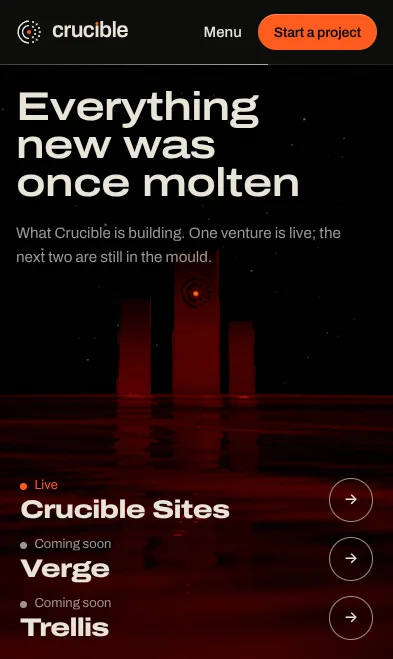
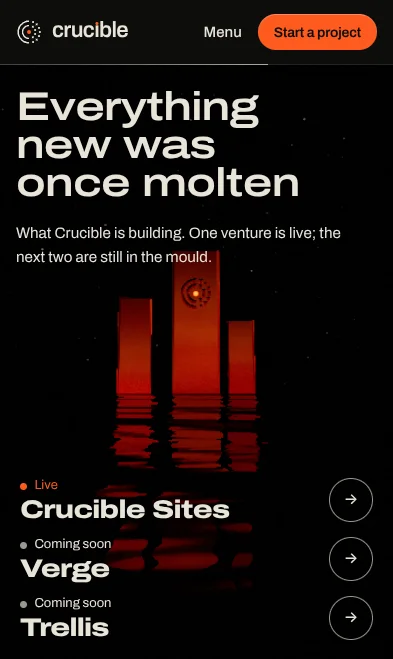
ventures: the monoliths' light in the world's radiance unit (GAIN), one sky lookup per pixel, a cheap reflection path (box normal, no mark), the march starts on the casting's box; frames
Claude-Session: https://claude.ai/code/session_01PrrUSiXXihBZvt7P76trxx

diff --git a/lib/world/ventures.ts b/lib/world/ventures.ts
@@ -29,6 +29,8 @@ const LAYOUT = {
   narrow: { pos: [[0, 0], [-6, -15], [5.5, -28]] as const, aim: [-0.06, 0.08, -0.1] },
 };
 const KINDS = [0, 1, 1];
+/** The monoliths' own light (heat, the pool, the lava-lit air) in the world's radiance unit. */
+const GAIN = 4;
 /** Forward lean of each monolith (rad, toward the camera). */
 const LEAN = [0.12, 0.085, 0.14]; // Crucible Sites cooled (live), Verge and Trellis still forging
 
@@ -172,6 +174,7 @@ function frameUpdate(f: Frame, u: Uniforms) {
     if (x1 > x0 && y1 > y0) Object.assign(b, { x: x0, y: y0, w: x1 - x0, h: y1 - y0, vis: true });
   }
   u.set('ventures_uOn', any ? 1 : 0);
+  u.set('ventures_uGain', GAIN);
   // the near sea cools through the place (fades in and out at the pin's ends, so the neighbours are untouched)
   u.set('ventures_uCool', 0.16 * Math.min(clamp(p / 0.06), clamp((1 - p) / 0.06)) * (any ? 1 : 0));
   u.set('ventures_uP', U.P);
@@ -186,10 +189,10 @@ function frameUpdate(f: Frame, u: Uniforms) {
   // night over a molten sea: the low air over the horizon is lit from below by the lava (a warm band), the zenith is
   // black; the band is what the metal mirrors as its bright line
   u.set('ventures_uZen', [0.0025, 0.003, 0.0055]);
-  u.set('ventures_uHorW', [0.5, 0.13, 0.035]);
-  u.set('ventures_uHorC', [0.42, 0.11, 0.03]);
-  u.set('ventures_uSea', V.mul(bb(900), 14 * 0.96));
-  u.set('ventures_uPool', V.mul(bb(1320), 14));
+  u.set('ventures_uHorW', V.mul([0.5, 0.13, 0.035], GAIN));
+  u.set('ventures_uHorC', V.mul([0.42, 0.11, 0.03], GAIN));
+  u.set('ventures_uSea', V.mul(bb(900), 14 * 0.96 * GAIN));
+  u.set('ventures_uPool', V.mul(bb(1320), 14 * GAIN));
 }
 
 // ---- the section's DOM ------------------------------------------------------------------------------------------------

diff --git a/lab/ventures/still.html b/lab/ventures/still.html
@@ -84,6 +84,7 @@ gl.uniformMatrix3fv(U('ventures_uM'), false, [...X, ...Y, ...Z, 1, 0, 0, 0, 1, 0
 gl.uniform4fv(U('ventures_uK'), [0, 0, I === 0 ? 0 : 1, 0, 0, 0, 1, 0, 0, 0, 1, 0]);
 gl.uniform4fv(U('ventures_uE'), E);
 gl.uniform1f(U('ventures_uOn'), 1);
+gl.uniform1f(U('ventures_uGain'), 1);
 gl.uniform3fv(U('ventures_uSunL'), [1, 0.62, 0.36]);
 gl.uniform3fv(U('ventures_uZen'), [0.006, 0.008, 0.016]);
 gl.uniform3fv(U('ventures_uHorW'), [0.55, 0.2, 0.06]);
